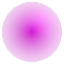
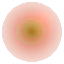
Uploaded the optimisation assignment

diff --git a/Samples/8. Optimization/SpaceDefence/Engine/FPSCounter.cs b/Samples/8. Optimization/SpaceDefence/Engine/FPSCounter.cs
@@ -1,0 +1,45 @@
+using System.Linq;
+using System.Reflection.Metadata.Ecma335;
+using Microsoft.Xna.Framework;
+using Microsoft.Xna.Framework.Graphics;
+
+namespace SpaceDefence.Engine
+{
+    /// <summary>
+    /// A simple FPS counter that smooths out some peaks and keeps track of the worst FPS
+    /// </summary>
+    public class FPSCounter : GameObject
+    {
+        private const int historySize = 15;
+        private double[] timeHistory;
+        private int counter = 0;
+        private double worstFPS = 60;
+        private double currentFPS;
+        private SpriteFont font;
+
+        public FPSCounter(SpriteFont font)
+        {
+            this.font = font;
+            timeHistory = new double[historySize];
+            for (int i = 0; i < historySize; i++)
+            {
+                timeHistory[i] = 60;
+            }
+        }
+
+        public override void Draw(GameTime time, SpriteBatch spriteBatch)
+        {
+            if (time.TotalGameTime.TotalSeconds < 2)
+                return;
+            counter = (counter + 1) % historySize;
+            timeHistory[counter] = 1.0 / time.ElapsedGameTime.TotalSeconds;
+            currentFPS = timeHistory.Average();
+            if (currentFPS < worstFPS)
+            {
+                worstFPS = currentFPS;
+            }
+            string fpsCounter = $"FPS: {currentFPS.ToString("N1")} \n Worst: {worstFPS.ToString("N1")}";
+            spriteBatch.DrawString(font, fpsCounter, new Vector2(25, 25), Color.White);
+        }
+    }
+}

diff --git a/Samples/8. Optimization/SpaceDefence/ShipSpawner.cs b/Samples/8. Optimization/SpaceDefence/ShipSpawner.cs
@@ -1,0 +1,37 @@
+using System;
+using Microsoft.Xna.Framework;
+
+namespace SpaceDefence
+{
+    public static class ShipSpawner
+    {
+        // The amount of ships that will be spawned. Starts at 4x5 = 20 per faction.
+        // Increase this as you go, make sure your FPS is less than ~10 before optimizing.
+        // I will keep increasing the number of columns until your game breaks during evaluation.
+        public static int ShipRows = 4;
+        public static int ShipColumns = 5;
+
+
+
+        public static int XSpacing = 70;
+        public static int YSpacing = 200;
+
+        public static void Spawn(GameManager manager)
+        {
+            Random r = new Random(7);
+            // Place the player at the center of the screen
+            for (int i = 0; i < ShipRows; i++)
+            {
+                for (int j = 0; j < ShipColumns; j++)
+                {
+                    Point team1Pos = new Point(r.Next(20) + 200 + j * XSpacing * ShipRows + i * XSpacing, r.Next(20) + 200 + i * YSpacing);
+                    Point team2Pos = new Point(r.Next(20) + 200 + j * XSpacing * ShipRows + i * XSpacing, 2000 + r.Next(20) + 200 + i * YSpacing);
+                    Ship player = new Ship(team1Pos, CollisionType.Team1, Color.Red);
+                    Ship player2 = new Ship(team2Pos, CollisionType.Team2, Color.Blue);
+                    manager.AddGameObject(player);
+                    manager.AddGameObject(player2);
+                }
+            }
+        }
+    }
+}

diff --git a/Samples/8. Optimization/SpaceDefence/SpaceDefence.cs b/Samples/8. Optimization/SpaceDefence/SpaceDefence.cs
@@ -6,10 +6,6 @@ namespace SpaceDefence
 {
     public class SpaceDefence : Game
     {
-        public static int XSpacing = 70;
-        public static int YSpacing = 200;
-        public static int ShipRows = 3;
-        public static int ShipColumns = 7;
         private SpriteBatch _spriteBatch;
         private GraphicsDeviceManager _graphics;
         private GameManager _gameManager;
@@ -32,20 +28,8 @@ namespace SpaceDefence
             //Initialize the GameManager
             _gameManager = GameManager.GetGameManager();
             base.Initialize();
-            Random r = new Random(7);
-            // Place the player at the center of the screen
-            for(int i = 0; i < ShipRows; i++)
-            {
-                for(int j = 0;  j < ShipColumns; j++)
-                {
-                    Point team1Pos =  new Point(r.Next(20) + 200 + j * XSpacing * ShipRows + i * XSpacing, r.Next(20) + 200 + i * YSpacing);
-                    Point team2Pos =  new Point(r.Next(20) + 200 + j * XSpacing * ShipRows + i * XSpacing, 2000 + r.Next(20) + 200 + i * YSpacing);
-                    Ship player = new Ship(team1Pos, CollisionType.Team1, Color.Red);
-                    Ship player2 = new Ship(team2Pos, CollisionType.Team2, Color.Blue);
-                    _gameManager.AddGameObject(player);
-                    _gameManager.AddGameObject(player2);
-                }
-            }
+
+            ShipSpawner.Spawn(_gameManager);
 
             // Add the starting objects to the GameManager
             _gameManager.Initialize(Content, this);

diff --git a/Samples/8. Optimization/SpaceDefence/Engine/GameManager.cs b/Samples/8. Optimization/SpaceDefence/Engine/GameManager.cs
@@ -3,6 +3,7 @@ using System.Collections.Generic;
 using Microsoft.Xna.Framework;
 using Microsoft.Xna.Framework.Content;
 using Microsoft.Xna.Framework.Graphics;
+using SpaceDefence.Engine;
 
 namespace SpaceDefence
 {
@@ -10,11 +11,11 @@ namespace SpaceDefence
     {
         private static GameManager gameManager;
 
+        private FPSCounter counter;
         private List<GameObject> _gameObjects;
         private List<GameObject> _toBeRemoved;
         private List<GameObject> _toBeAdded;
         private ContentManager _content;
-        private Effect _teamColorEffect;
         public Matrix WorldMatrix { get; set; }
 
         public Random RNG { get; private set; }
@@ -46,11 +47,11 @@ namespace SpaceDefence
 
         public void Load(ContentManager content)
         {
-            _teamColorEffect = content.Load<Effect>("TeamColors");
             foreach (GameObject gameObject in _gameObjects)
             {
                 gameObject.Load(content);
             }
+            counter = new FPSCounter(content.Load<SpriteFont>("Font"));
         }
 
         public void HandleInput(InputManager inputManager)
@@ -81,7 +82,6 @@ namespace SpaceDefence
         public void Update(GameTime gameTime) 
         {
             InputManager.Update();
-
             // Handle input
             HandleInput(InputManager);
 
@@ -112,11 +112,14 @@ namespace SpaceDefence
 
         public void Draw(GameTime gameTime, SpriteBatch spriteBatch) 
         {
-            spriteBatch.Begin(transformMatrix: WorldMatrix,effect: _teamColorEffect);
+            spriteBatch.Begin(transformMatrix: WorldMatrix);
             foreach (GameObject gameObject in _gameObjects)
             {
                 gameObject.Draw(gameTime, spriteBatch);
             }
+            spriteBatch.End();
+            spriteBatch.Begin();
+            counter.Draw(gameTime, spriteBatch);
             spriteBatch.End();
         }
 

diff --git a/Samples/8. Optimization/SpaceDefence/Ship.cs b/Samples/8. Optimization/SpaceDefence/Ship.cs
@@ -106,6 +106,7 @@ namespace SpaceDefence
                 _rectangleCollider.shape.Location += (Vector2.Normalize((target -GetPosition().Center).ToVector2()) * speed  * (float)gameTime.ElapsedGameTime.TotalSeconds).ToPoint();
             }
             _rectangleCollider.shape.Location += (AvoidObstacles()* (float)gameTime.ElapsedGameTime.TotalSeconds).ToPoint();
+
         }
 
         public Point Shoot()
@@ -176,6 +177,13 @@ namespace SpaceDefence
             base.Draw(gameTime, spriteBatch);
         }
 
+        /// <summary>
+        /// Add team colors to the shipa and slowly fade them as they grow weaker.
+        /// </summary>
+        /// <param name="textureData">An array with the original ship texture data</param>
+        /// <param name="target">The buffer on the graphics card to write the data to</param>
+        /// <param name="color">The color to make the ship (alpha is ignored)</param>
+        /// <param name="percentage">The percentage of health left</param>
         public static void ReplaceAndFadeTexture(Color[] textureData, Texture2D target, Color color, float percentage)
         {
 

diff --git a/Samples/8. Optimization/SpaceDefence/Engine/Particle.cs b/Samples/8. Optimization/SpaceDefence/Engine/Particle.cs
@@ -15,7 +15,7 @@ namespace SpaceDefence
 
         public float scale;
         public Texture2D sprite;
-        public Color color;
+        public Color color = Color.White;
 
         public override void Load(ContentManager content)
         {

diff --git a/Samples/8. Optimization/SpaceDefence/Engine/ParticleEmitter.cs b/Samples/8. Optimization/SpaceDefence/Engine/ParticleEmitter.cs
@@ -53,7 +53,6 @@ namespace SpaceDefence
                 particle.acceleration = data.acceleration;
                 particle.lifespan = data.lifespan;
                 particle.fade = data.fade;
-                particle.color = new Color(200 + random.Next(55), 40 + random.Next(180), 40 + random.Next(80), 255);
                 GameManager.GetGameManager().AddGameObject(particle);
 
             }

diff --git a/Assignments/5. Optimization.md b/Assignments/5. Optimization.md
@@ -1,3 +1,62 @@
+
 # Optimization
 
-This assignment will be added later.
+Optimize the code in 8. Optimization.
+
+The goal is to increase the performance of your game, while keeping functionality **exactly** the same.
+
+Look at the samples and slides for ideas on how to improve performance. 
+
+### How to optimize your game
+
+Optimization is an iterative process. Optimization should always be done in release mode.
+
+- If your game runs smoothly, increase the number of ships in the ShipSpawner class until you hit less than ~10 FPS. 
+- Before you make any changes, run the profiler and note down what part of the simulation uses the most processor time.
+- Optimize the part that takes the most processor power.
+- Test again to make sure your changes actually improved thing.
+- Continue until your game can support as many entities (ships) as possible.
+
+### Optimization report
+
+Make a report of your optimization efforts in the form of an excell sheet. On each line list at least:
+
+- The number of ships
+- The worst FPS during your testing
+- The percentage of processor time used by the most impactful code
+- What improvements you have made
+- The new FPS
+- The new percentage of processor time
+- The effect this has on your game's maintainability (in 1 or 2 sentences)
+- If this might affect functionality in some circumstances (e.g. if you use a form of object pooling your game might act up when you surpass the pool size)
+
+Notes: Make sure you test for the same time span before and after, this way your profiler results are comparable.
+
+
+### Grading
+
+**To get a grade it is required that your game is functionally equivalent to the original code, including things like: the number of particles, ship movement, the colours of the ships. Compare your version to the original throughout to make sure you don't accidentally change things.**
+
+The actual number of ships your game can support will depend on your hardware, but all improvements will be compared on my computer, with no other programs running and plugged inthe power supply.
+
+Improvements (Max 5):
+
+    +1 for every reasonable improvement up to 5
+    For full credits it is required that the improvements are accompanied by all the above information, and each improvement should have a significant impact on performance.
+
+Methodology (Max 1):
+
+    +0.5 for reasonable methodology
+    +1 for good methodology
+
+Performance (Max 4)*:
+
+    10x +1
+    15x +1.5
+    20x +2
+    25x +2.5
+    30x +3
+    35x +3.5
+    40x +4
+
+*Measured in the increase in ships the game can handle at 30+ FPS. Exact results will varry based on hardware, performannce on my laptop is leading. To make a good prediction look at how many ships your computer can handle before any changes and use that as your baseline.